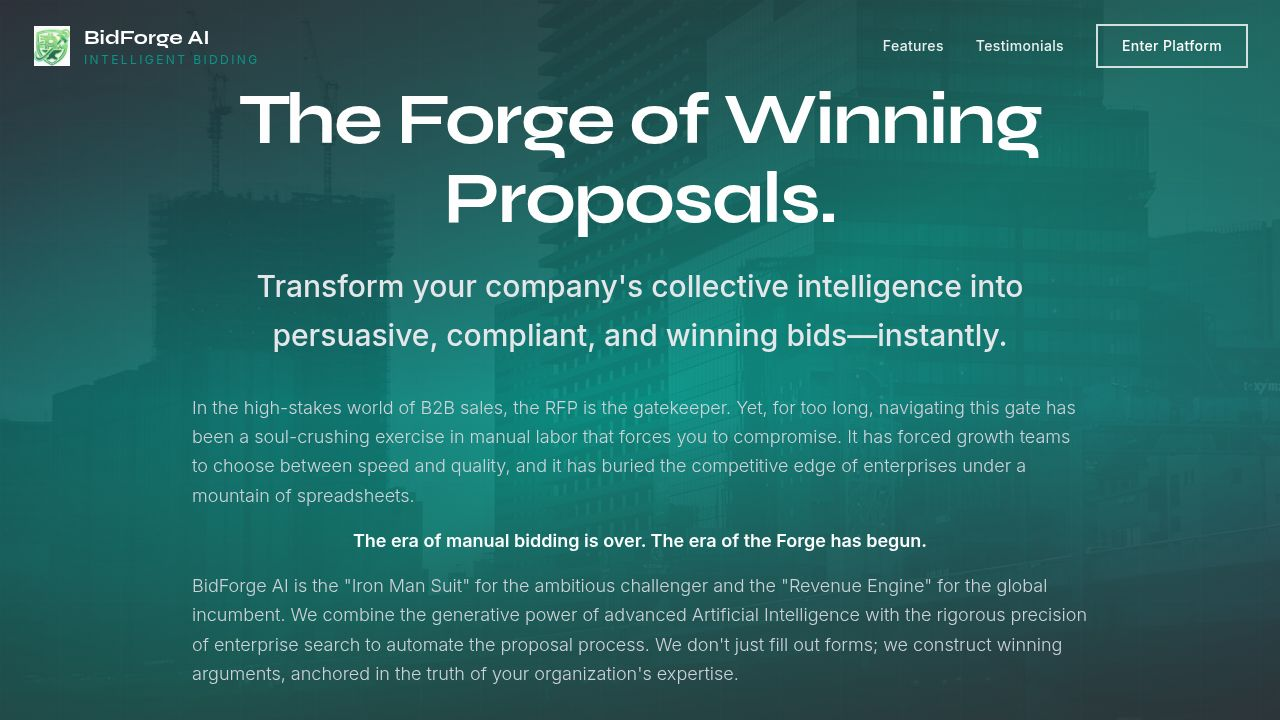
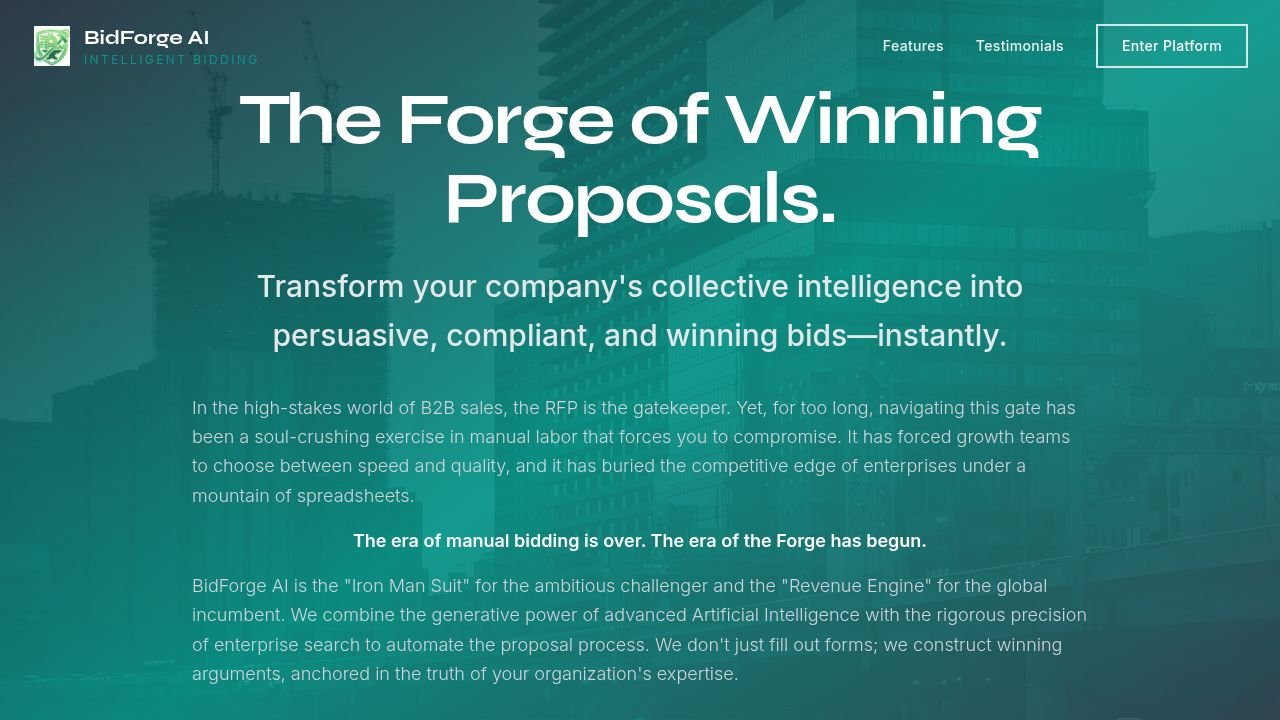
Update website color scheme to a navy and blue palette
Replace teal/gold color scheme with new navy/blue branding by updating CSS variables, HSL values, and component classes in index.css.

Replit-Commit-Author: Agent
Replit-Commit-Session-Id: 06403eee-08e4-4b3c-8e32-388d0fecf746
Replit-Commit-Checkpoint-Type: full_checkpoint
Replit-Commit-Event-Id: 75a877e7-05c2-4f96-bb73-e6b01866f4c9
Replit-Commit-Screenshot-Url: https://storage.googleapis.com/screenshot-production-us-central1/b50c203a-303b-4636-990b-aa994a49ccdb/06403eee-08e4-4b3c-8e32-388d0fecf746/Xzf9fTr

Changed region(s): [[0.0, 0.7028, 1.0, 1.0], [0.3125, 0.0, 1.0, 0.3056], [0.375, 0.2444, 0.4062, 0.275]]

diff --git a/client/src/index.css b/client/src/index.css
@@ -55,31 +55,29 @@
   --color-sidebar-border: hsl(var(--sidebar-border));
   --color-sidebar-ring: hsl(var(--sidebar-ring));
 
-  --color-charcoal-900: #1a1a1a;
-  --color-charcoal-800: #2c2c2c;
-  --color-charcoal-700: #3d3d3d;
-  --color-charcoal-600: #4f4f4f;
-  --color-charcoal-500: #666666;
+  --color-navy-900: #0F172A;
+  --color-navy-800: #1E293B;
+  --color-navy-700: #334155;
+  --color-navy-600: #475569;
+  --color-navy-500: #64748B;
   
-  --color-teal-900: #0a4d4f;
-  --color-teal-800: #0c6265;
-  --color-teal-700: #0d7377;
-  --color-teal-600: #108387;
-  --color-teal-500: #14a39e;
-  --color-teal-400: #3db8b3;
-  --color-teal-300: #66ccc8;
-  --color-teal-200: #99e0dd;
-  --color-teal-100: #e6f5f5;
+  --color-blue-900: #1E3A8A;
+  --color-blue-800: #1E40AF;
+  --color-blue-700: #1D4ED8;
+  --color-blue-600: #2563EB;
+  --color-blue-500: #3B82F6;
+  --color-blue-400: #60A5FA;
+  --color-blue-300: #93C5FD;
+  --color-blue-200: #BFDBFE;
+  --color-blue-100: #DBEAFE;
   
-  --color-gold-900: #6b5322;
-  --color-gold-800: #8a6f2f;
-  --color-gold-700: #9d7d38;
-  --color-gold-600: #b8995a;
-  --color-gold-500: #c8a962;
-  --color-gold-400: #d4bd8a;
-  --color-gold-300: #e0d1a8;
-  --color-gold-200: #ece5c7;
-  --color-gold-100: #f8f4ed;
+  --color-success-600: #16A34A;
+  --color-success-500: #22C55E;
+  --color-success-400: #4ADE80;
+  
+  --color-warning-600: #D97706;
+  --color-warning-500: #F59E0B;
+  --color-warning-400: #FBBF24;
   
   --font-sans: 'Inter', sans-serif;
   --font-display: 'Syne', sans-serif;
@@ -113,95 +111,95 @@
 }
 
 :root {
-  --background: 0 0% 82%;
-  --foreground: 0 0% 10%;
+  --background: 210 40% 98%;
+  --foreground: 222 47% 11%;
 
-  --card: 0 0% 90%;
-  --card-foreground: 0 0% 10%;
+  --card: 0 0% 100%;
+  --card-foreground: 222 47% 11%;
 
-  --popover: 0 0% 92%;
-  --popover-foreground: 0 0% 10%;
+  --popover: 0 0% 100%;
+  --popover-foreground: 222 47% 11%;
 
-  --primary: 181 75% 35%;
+  --primary: 217 91% 53%;
   --primary-foreground: 0 0% 100%;
 
-  --secondary: 42 45% 58%;
-  --secondary-foreground: 0 0% 10%;
+  --secondary: 217 91% 60%;
+  --secondary-foreground: 0 0% 100%;
 
-  --muted: 0 0% 85%;
-  --muted-foreground: 0 0% 45%;
+  --muted: 210 40% 96%;
+  --muted-foreground: 215 16% 47%;
 
-  --accent: 181 70% 26%;
+  --accent: 217 91% 60%;
   --accent-foreground: 0 0% 100%;
 
   --destructive: 0 84% 60%;
   --destructive-foreground: 0 0% 100%;
 
-  --border: 0 0% 65%;
-  --input: 0 0% 75%;
-  --ring: 181 75% 35%;
+  --border: 214 32% 91%;
+  --input: 214 32% 91%;
+  --ring: 217 91% 53%;
 
   --radius: 0.5rem;
 
-  --chart-1: 181 75% 35%;
-  --chart-2: 42 45% 58%;
-  --chart-3: 174 70% 40%;
-  --chart-4: 0 0% 10%;
-  --chart-5: 0 0% 60%;
+  --chart-1: 217 91% 53%;
+  --chart-2: 142 76% 36%;
+  --chart-3: 38 92% 50%;
+  --chart-4: 222 47% 11%;
+  --chart-5: 215 16% 47%;
 
-  --sidebar: 0 0% 10%;
-  --sidebar-foreground: 0 0% 98%;
-  --sidebar-primary: 42 45% 58%;
-  --sidebar-primary-foreground: 0 0% 10%;
-  --sidebar-accent: 0 0% 15%;
-  --sidebar-accent-foreground: 0 0% 98%;
-  --sidebar-border: 0 0% 20%;
-  --sidebar-ring: 42 45% 58%;
+  --sidebar: 222 47% 11%;
+  --sidebar-foreground: 210 40% 98%;
+  --sidebar-primary: 217 91% 53%;
+  --sidebar-primary-foreground: 0 0% 100%;
+  --sidebar-accent: 222 47% 15%;
+  --sidebar-accent-foreground: 210 40% 98%;
+  --sidebar-border: 222 47% 20%;
+  --sidebar-ring: 217 91% 53%;
 }
 
 .dark {
-  --background: 0 0% 8%;
-  --foreground: 0 0% 98%;
+  --background: 222 47% 8%;
+  --foreground: 210 40% 98%;
 
-  --card: 0 0% 12%;
-  --card-foreground: 0 0% 98%;
+  --card: 222 47% 11%;
+  --card-foreground: 210 40% 98%;
 
-  --popover: 0 0% 12%;
-  --popover-foreground: 0 0% 98%;
+  --popover: 222 47% 11%;
+  --popover-foreground: 210 40% 98%;
 
-  --primary: 181 60% 40%;
+  --primary: 217 91% 60%;
   --primary-foreground: 0 0% 100%;
 
-  --secondary: 42 40% 55%;
-  --secondary-foreground: 0 0% 10%;
+  --secondary: 217 91% 53%;
+  --secondary-foreground: 0 0% 100%;
 
-  --muted: 0 0% 15%;
-  --muted-foreground: 0 0% 60%;
+  --muted: 222 47% 15%;
+  --muted-foreground: 215 16% 60%;
 
-  --accent: 181 50% 30%;
+  --accent: 217 91% 53%;
   --accent-foreground: 0 0% 100%;
 
-  --destructive: 0 62% 30%;
+  --destructive: 0 62% 40%;
   --destructive-foreground: 0 0% 98%;
 
-  --border: 0 0% 20%;
-  --input: 0 0% 20%;
-  --ring: 42 40% 55%;
+  --border: 222 47% 20%;
+  --input: 222 47% 20%;
+  --ring: 217 91% 60%;
 
-  --chart-1: 181 60% 40%;
-  --chart-2: 42 40% 55%;
-  --chart-3: 174 60% 50%;
-  --chart-4: 0 0% 70%;
-  --chart-5: 0 0% 40%;
+  --chart-1: 217 91% 60%;
+  --chart-2: 142 76% 40%;
+  --chart-3: 38 92% 55%;
+  --chart-4: 210 40% 80%;
+  --chart-5: 215 16% 50%;
 
-  --sidebar: 0 0% 6%;
-  --sidebar-foreground: 0 0% 98%;
-  --sidebar-primary: 42 40% 55%;
-  --sidebar-primary-foreground: 0 0% 10%;
-  --sidebar-accent: 0 0% 12%;
-  --sidebar-accent-foreground: 0 0% 98%;
-  --sidebar-border: 0 0% 15%;
-  --sidebar-ring: 42 40% 55%;
+  --sidebar: 222 47% 6%;
+  --sidebar-foreground: 210 40% 98%;
+  --sidebar-primary: 217 91% 60%;
+  --sidebar-primary-foreground: 0 0% 100%;
+  --sidebar-accent: 222 47% 12%;
+  --sidebar-accent-foreground: 210 40% 98%;
+  --sidebar-border: 222 47% 15%;
+  --sidebar-ring: 217 91% 60%;
 }
 
 * {
@@ -214,7 +212,7 @@ html {
 }
 
 ::selection {
-  background: var(--color-teal-700);
+  background: var(--color-blue-600);
   color: white;
 }
 
@@ -234,7 +232,7 @@ html {
 }
 
 ::-webkit-scrollbar-thumb:hover {
-  background: #14a39e;
+  background: #2563EB;
 }
 
 @layer base {
@@ -251,31 +249,31 @@ html {
 
 @layer components {
   .btn-primary {
-    @apply px-8 py-4 bg-gradient-to-r from-teal-700 to-teal-600 text-white font-medium tracking-wide;
+    @apply px-8 py-4 bg-gradient-to-r from-blue-700 to-blue-600 text-white font-medium tracking-wide;
     @apply hover:shadow-2xl hover:scale-105 transition-all duration-300;
-    @apply focus:outline-none focus:ring-2 focus:ring-teal-700 focus:ring-offset-2;
+    @apply focus:outline-none focus:ring-2 focus:ring-blue-600 focus:ring-offset-2;
   }
 
   .btn-secondary {
-    @apply px-8 py-4 border-2 border-gold-600 text-gold-600 font-medium tracking-wide;
-    @apply hover:bg-gold-600 hover:text-charcoal-900 transition-all duration-300;
+    @apply px-8 py-4 border-2 border-blue-500 text-blue-500 font-medium tracking-wide;
+    @apply hover:bg-blue-500 hover:text-white transition-all duration-300;
   }
 
   .card-premium {
     @apply bg-card border border-border transition-all duration-500;
-    @apply hover:shadow-2xl hover:border-teal-700 hover:-translate-y-1;
+    @apply hover:shadow-2xl hover:border-blue-500 hover:-translate-y-1;
   }
 
   .text-gradient-gold {
-    @apply bg-gradient-to-r from-gold-800 via-gold-600 to-gold-800 bg-clip-text text-transparent;
+    @apply bg-gradient-to-r from-blue-800 via-blue-600 to-blue-800 bg-clip-text text-transparent;
   }
 
   .text-gradient-teal {
-    @apply bg-gradient-to-r from-teal-700 via-teal-500 to-teal-700 bg-clip-text text-transparent;
+    @apply bg-gradient-to-r from-blue-700 via-blue-500 to-blue-700 bg-clip-text text-transparent;
   }
 
   .divider-premium {
-    @apply w-24 h-1 bg-gradient-to-r from-transparent via-teal-700 to-transparent;
+    @apply w-24 h-1 bg-gradient-to-r from-transparent via-blue-600 to-transparent;
   }
 
   .section-header {
@@ -283,7 +281,7 @@ html {
   }
 
   .section-label {
-    @apply text-teal-700 uppercase tracking-wider text-sm font-medium mb-4 block;
+    @apply text-blue-600 uppercase tracking-wider text-sm font-medium mb-4 block;
   }
 
   .section-title {
@@ -295,7 +293,7 @@ html {
   }
 
   .stat-number {
-    @apply text-4xl font-bold text-teal-700 mb-1;
+    @apply text-4xl font-bold text-blue-600 mb-1;
   }
 
   .stat-label {
@@ -382,7 +380,7 @@ html {
   }
 
   blockquote {
-    border-left: 3px solid var(--color-gold-600);
+    border-left: 3px solid var(--color-blue-600);
     background-color: hsl(var(--secondary) / 0.1);
     margin: 1.5rem 0;
     padding: 1rem;
@@ -424,7 +422,7 @@ html {
     }
 
     .selectedCell:after {
-      background: rgba(13, 115, 119, 0.2);
+      background: rgba(37, 99, 235, 0.2);
       content: "";
       left: 0;
       right: 0;
@@ -436,7 +434,7 @@ html {
     }
 
     .column-resize-handle {
-      background-color: var(--color-gold-600);
+      background-color: var(--color-blue-600);
       bottom: -2px;
       pointer-events: none;
       position: absolute;

diff --git a/attached_assets/New_colors_BidForgeAi_1766274839248.css b/attached_assets/New_colors_BidForgeAi_1766274839248.css
@@ -1,0 +1,35 @@
+:root {
+  /* Primary Branding */
+  --primary-navy: #0F172A;
+  --primary-blue: #2563EB;
+  --accent-blue: #3B82F6;
+
+  /* Status Indicators */
+  --success-green: #16A34A;
+  --warning-orange: #F59E0B;
+
+  /* Backgrounds & Text */
+  --bg-white: #FFFFFF;
+  --bg-light: #F8FAFC;
+  --text-main: #0F172A;
+  --text-muted: #64748B;
+}
+
+body {
+  background-color: var(--bg-light);
+  color: var(--text-main);
+  font-family: 'Inter', sans-serif; /* Recommended for Shadcn/Tailwind look */
+}
+
+h1, h2, h3 {
+  color: var(--primary-navy);
+}
+
+.btn-primary {
+  background-color: var(--primary-blue);
+  color: white;
+}
+
+.win-probability {
+  color: var(--success-green);
+}
